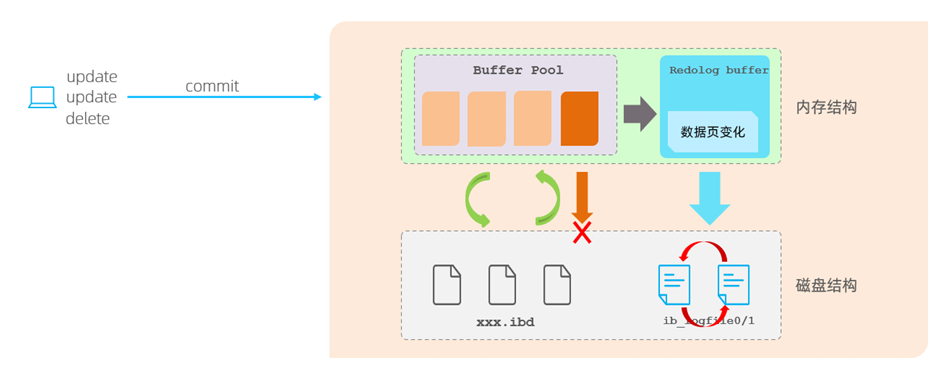
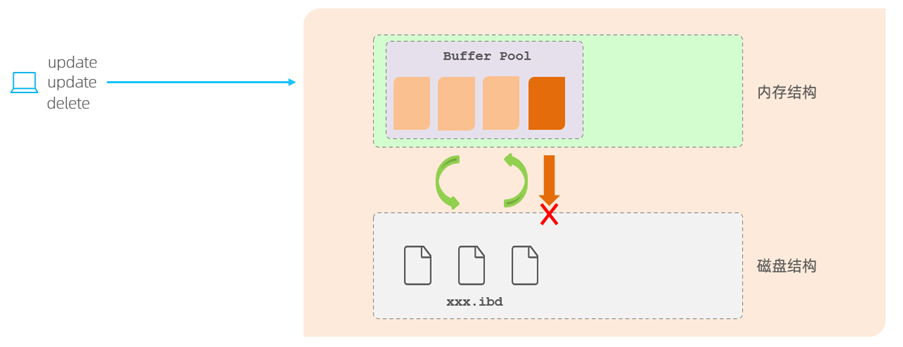
update 5.3

Changed region(s): [[0.4031, 0.0865, 0.9302, 0.9222], [0.0, 0.0288, 0.9922, 0.9798], [0.8372, 0.7493, 0.8992, 0.8069]]

diff --git a/docs/笔记/常用网站.md b/docs/笔记/常用网站.md
@@ -266,7 +266,7 @@ Java 数据结构（韩顺平）：https://www.bilibili.com/video/BV1E4411H73v
 
 **中转站（低价接入大模型的平台）**
 
-- AI 大模型接入平台：https://zrocode.site/home
+- ZROCODE：https://zrocode.site/home
 - API - Pro：https://api.rcouyi.com/
 
 ### MCP 服务
@@ -393,35 +393,43 @@ Java 数据结构（韩顺平）：https://www.bilibili.com/video/BV1E4411H73v
 
 （2） 尚硅谷 JavaWeb（194 集）：https://www.bilibili.com/video/BV1UN411x7xe
 
-3. 黑马 **Redis**（包含黑马点评项目）：https://www.bilibili.com/video/BV1cr4y1671t/
+3. 黑马**若依框架**：https://www.bilibili.com/video/BV1pf421B71v/
+
+> 基础应用篇笔记：https://ksg50j5gph.feishu.cn/docx/LBpldchP4oGT9JxfaaQcT8hfnGd
+>
+> 项目实战篇笔记：https://ksg50j5gph.feishu.cn/docx/NxIqdCZVzo2tRfxNL6Nc1BD1nnf
+>
+> 拔高原理篇笔记：https://ksg50j5gph.feishu.cn/docx/DKoFdbI1ooYnBLxnw8mco9bgnvh
+
+4. 黑马 **Redis**（包含黑马点评项目）：https://www.bilibili.com/video/BV1cr4y1671t/
 
 > 课程资料：https://pan.baidu.com/s/1189u6u4icQYHg_9_7ovWmA&pwd=eh11
 
-4. 黑马 SpringCloud **微服务**（MybatisPlus + Docker + MQ + ES + Redis 高级等）：https://www.bilibili.com/video/BV1S142197x7
+5. 黑马 SpringCloud **微服务**（MybatisPlus + Docker + MQ + ES + Redis 高级等）：https://www.bilibili.com/video/BV1S142197x7
 
 > - 在线笔记：https://b11et3un53m.feishu.cn/wiki/space/7229522334074372099
 > - 课程资料：https://pan.baidu.com/s/1JX0fhmV82mgPeBBbAMNV0w&pwd=7988
 
-5. 黑马 **JUC**：https://www.bilibili.com/video/BV16J411h7Rd/
+6. 黑马 **JUC**：https://www.bilibili.com/video/BV16J411h7Rd/
 
 > 课程资料：https://pan.baidu.com/s/1ygecyA_F7HsIOQenIEoQWA&pwd=1987
 
-6. 黑马 **JVM**：https://www.bilibili.com/video/BV1yE411Z7AP
+7. 黑马 **JVM**：https://www.bilibili.com/video/BV1yE411Z7AP
 
 > 课程资料：https://pan.baidu.com/s/18YNZB5QjUCeJ6DYWykOhoQ&pwd=1988
 
-7. 黑马 **设计模式**：https://www.bilibili.com/video/BV1Np4y1z7BU/
+8. 黑马 **设计模式**：https://www.bilibili.com/video/BV1Np4y1z7BU/
 
 > 课程资料：https://pan.baidu.com/s/1URG3sFhFPqdNP8CbGS_UHg&pwd=1888
 
-8. **Git**
+9. **Git**
 
 - 30 分钟快速入门：https://www.bilibili.com/video/BV1pX4y1S7Dq/
 - 尚硅谷 Git：https://www.bilibili.com/video/BV1vy4y1s7k6/
 - 黑马 Git：https://www.bilibili.com/video/BV1MU4y1Y7h5/
 - 菜鸟教程：https://www.runoob.com/git/git-tutorial.html
 
-9. **Linux**
+10. **Linux**
 
 - 30 分钟快速入门：https://www.bilibili.com/video/BV1cq421w72c/
 - 黑马 Linux：https://www.bilibili.com/video/BV1n84y1i7td/
@@ -431,7 +439,7 @@ Java 数据结构（韩顺平）：https://www.bilibili.com/video/BV1E4411H73v
 - 韩顺平 Linux：https://www.bilibili.com/video/BV1Sv411r7vd/
 - 菜鸟教程：https://www.runoob.com/linux/linux-tutorial.html
 
-10. **毕设指导**：https://www.bilibili.com/video/BV15BqAYNErA/
+11. **毕设指导**：https://www.bilibili.com/video/BV15BqAYNErA/
 
 ### SSM 原理篇
 
@@ -487,7 +495,7 @@ Java 数据结构（韩顺平）：https://www.bilibili.com/video/BV1E4411H73v
 
 > ⚠ **黑马项目演示账号密码**：https://s3domc2om4.feishu.cn/wiki/MToQwY5jViQrTlkvyd9cuwgqnpc
 
-**（1）AIGC 应用与智能体开发（星图）**（AI 智能体项目）
+**（1）AIGC 应用与智能体开发（星图）**（文生图项目）
 
 > - 在线笔记：https://aigz8jy30yo.feishu.cn/drive/folder/E1VPfW6QqldKxOdMaNCcrGOHnbb?from=from_copylink
 > - 课程资料：https://pan.baidu.com/s/1wCfD35LqKpeTnRu4G87tuA?pwd=c2x1 提取码: c2x1
@@ -518,7 +526,7 @@ Java 数据结构（韩顺平）：https://www.bilibili.com/video/BV1E4411H73v
 > - 在线笔记：https://b11et3un53m.feishu.cn/wiki/space/7210409107579469825
 > - 课程资料：https://pan.baidu.com/s/1f6JS6TLgVXEVMmjA3lThZg?pwd=8cyk 提取码：8cyk
 
-**（6）天机学堂 - AI 模块**
+**（6）天机学堂 - AI 模块**（SpringAI + MCP）
 
 > - 课程链接：https://www.bilibili.com/video/BV1MFokBkEzC/
 > - 在线笔记（黑马星球）：https://www.yuque.com/zhangzhijun-91vgw/tianji-ai?# **密码：yygg**
@@ -542,6 +550,14 @@ Java 数据结构（韩顺平）：https://www.bilibili.com/video/BV1E4411H73v
 > - 在线笔记：https://aigz8jy30yo.feishu.cn/docx/WFcydX5GLocjbMxjg22cZP9Onmh **密码：494&s157**
 > - 课程资料：https://pan.baidu.com/s/1iAqTQnYBO9Z3M4h1OOmNJg?pwd=n90d 提取码：n90d
 
+**（10）Dubbo 版本餐掌柜**（微服务 + 分布式项目）
+
+> - 课程资料：https://pan.baidu.com/s/13nrvTWU7JzPbbFb04adN-g?pwd=dr48 提取码: dr48
+> - 在线笔记（飞书）：https://aigz8jy30yo.feishu.cn/docx/L6qidD7FJo3hOJxjRVvcvUHmnPf **密码：V221@991**
+> - 在线笔记（语雀）：https://www.yuque.com/ares666/or96ib?# **密码：aetm**
+> - 虚拟机下载（百度网盘）：https://pan.baidu.com/s/1VEP666peVZvpcsur4HzBrA?pwd=meyd 提取码: meyd
+> - 虚拟机下载（夸克网盘）：https://pan.quark.cn/s/ec439a9e9bb5 提取码：FHax
+
 ### 接口测试
 
 **Apifox**
@@ -559,25 +575,7 @@ Java 数据结构（韩顺平）：https://www.bilibili.com/video/BV1E4411H73v
 
 ### 🤖 Java + AI
 
-- **鱼皮 AI 教程**：https://ai.codefather.cn/library/1936010874183520257
-
-> **鱼皮超级智能体项目**：https://www.codefather.cn/course/1915010091721236482
-> 项目仓库：https://github.com/liyupi/yu-ai-agent
-> 项目介绍视频：https://www.bilibili.com/video/BV1UoLezKEbm/
-
-- **AI 相关内容介绍（鱼皮）**
-
-> 视频教程：https://www.bilibili.com/video/BV1i9Z8YhEja
->
-> 文字教程：https://www.codefather.cn/course/1907378983347892226
-
-- 黑马 AI + **若依框架**：https://www.bilibili.com/video/BV1pf421B71v/
-
-> 基础应用篇笔记：https://ksg50j5gph.feishu.cn/docx/LBpldchP4oGT9JxfaaQcT8hfnGd
->
-> 项目实战篇笔记：https://ksg50j5gph.feishu.cn/docx/NxIqdCZVzo2tRfxNL6Nc1BD1nnf
->
-> 拔高原理篇笔记：https://ksg50j5gph.feishu.cn/docx/DKoFdbI1ooYnBLxnw8mco9bgnvh
+**（1）相关课程**
 
 - 黑马 SpringAI + DeepSeek 大模型应用开发：https://www.bilibili.com/video/BV1MtZnYtEB3/
 
@@ -585,11 +583,33 @@ Java 数据结构（韩顺平）：https://www.bilibili.com/video/BV1E4411H73v
 
 - 黑马 LangChain4j：https://www.bilibili.com/video/BV1sDMqzpEQ3
 
-- 黑马 Deepseek 使用教程：https://www.bilibili.com/video/BV1SoQuYjE2u
-
 - 黑马 Deepseek + Cursor 项目实战开发：https://www.bilibili.com/video/BV1ig9jYUERk/
 
+- 黑马 Deepseek 使用教程：https://www.bilibili.com/video/BV1SoQuYjE2u
+
 - 黑马 Deepseek 本地部署：https://www.bilibili.com/video/BV1iQNueoEBD
+
+**（2）相关项目**
+
+- 鱼皮超级智能体项目：https://www.codefather.cn/course/1915010091721236482
+
+> 项目仓库：https://github.com/liyupi/yu-ai-agent
+>
+> 视频介绍：https://www.bilibili.com/video/BV1UoLezKEbm/
+
+**（3）相关资料**
+
+- 黑马 OpenCode 教程文档：https://t1435a6bh73.feishu.cn/wiki/VDzSwQ37jiSL6LkktTgcqnu5nMd
+
+- Hello-Agents：https://datawhalechina.github.io/hello-agents/#/
+
+- **鱼皮 AI 知识库**：https://ai.codefather.cn/library/1936010874183520257
+
+- **鱼皮 AI 相关内容介绍**
+
+> 视频教程：https://www.bilibili.com/video/BV1i9Z8YhEja
+>
+> 文字教程：https://www.codefather.cn/course/1907378983347892226
 
 ### ⚠ 面试 & 八股文
 
@@ -599,7 +619,11 @@ Java 数据结构（韩顺平）：https://www.bilibili.com/video/BV1E4411H73v
 - **小林简历**：https://jianli.xiaolinnote.com/
 - CodeCV 简历模板：https://codecv.top/
 - 鱼皮简历：https://www.laoyujianli.com/
-- 知页简历（手机 APP）
+- 直聘简历：https://cv.zhipin.com/
+- 全民简历；https://www.qmjianli.com/
+- 五百丁简历：https://www.500d.me/
+- 简历本：https://www.jianliben.com/
+- 职徒简历：https://www.52cv.com/
 
 **算法**
 
@@ -645,27 +669,33 @@ Java 数据结构（韩顺平）：https://www.bilibili.com/video/BV1E4411H73v
 
 ### 🚀 找工作
 
-面试鸭：https://www.mianshiya.com/banks
+**求职攻略**
 
-boss 直聘：https://www.zhipin.com/
+- 鱼皮求职指南：https://www.bilibili.com/video/BV1LEQLYqEGT/
 
-拉钩招聘：https://www.lagou.com/wn/
+- 鱼皮求职注意事项：https://www.bilibili.com/video/BV1NmxyzJEkn/
 
-牛客网：https://www.nowcoder.com/
+**投递渠道**
 
-实习僧：https://tuiguang.shixiseng.com/
+- boss 直聘：https://www.zhipin.com/
 
-智联招聘：https://www.zhaopin.com/
+- 牛客网：https://www.nowcoder.com/
 
-前程无忧：https://51job.com/
+- 智联招聘：https://www.zhaopin.com/
+
+- 前程无忧：https://51job.com/
+
+- 猎聘：https://www.liepin.com/
+
+- 实习僧：https://tuiguang.shixiseng.com/
+
+- 拉钩招聘：https://www.lagou.com/wn/
 
 ### 工具 & 资源
 
-**飞书**
+**Java 相关资源**
 
-- 官方教程：https://www.bilibili.com/video/BV1Bvxhe6EBC/?spm_id_from=333.337.search-card.all.click&vd_source=822e86b53dab98632ef279a46d2536db
-
-- 文档使用教程（官方文档）：https://www.feishu.cn/hc/zh-CN/articles/945900971706-%E5%BF%AB%E9%80%9F%E4%B8%8A%E6%89%8B%E6%96%87%E6%A1%A3
+- JavaGuide 资源：https://javaguide.cn/open-source-project/tutorial.html
 
 **工具集**
 
@@ -682,16 +712,6 @@ boss 直聘：https://www.zhipin.com/
 - 浏览器 json 格式化插件：https://microsoftedge.microsoft.com/addons/detail/json-formatter/hdebmbedhflilekbidmmdiaiilaegkjl
 
 - SwitchHosts（自定义 ip 映射自定义域名）：https://github.com/oldj/SwitchHosts/releases
-
-**Java 资源**
-
-- Java 优质开源技术教程：https://javaguide.cn/open-source-project/tutorial.html
-- Java 优质开源实战项目：https://javaguide.cn/open-source-project/practical-project.html
-- Java 优质开源系统设计项目：https://javaguide.cn/open-source-project/system-design.html
-- Java 优质开源工具类：https://javaguide.cn/open-source-project/tool-library.html#excel
-- Java 优质开源开发工具：https://javaguide.cn/open-source-project/tools.html#redis
-- Java 优质开源 AI 项目：https://javaguide.cn/open-source-project/machine-learning.html
-- Java 优质开源大数据项目：https://javaguide.cn/open-source-project/big-data.html
 
 - 开发相关工具箱：https://www.matools.com/
 
@@ -985,6 +1005,12 @@ iraionly 文章站：http://iraionly.cn/
 百度翻译：https://fanyi.baidu.com/mtpe-individual/multimodal?ext_channel=DuSearch#/
 
 DeepL 翻译：https://www.deepl.com/zh/translator
+
+**飞书**
+
+- 官方教程：https://www.bilibili.com/video/BV1Bvxhe6EBC/?spm_id_from=333.337.search-card.all.click&vd_source=822e86b53dab98632ef279a46d2536db
+
+- 文档使用教程（官方文档）：https://www.feishu.cn/hc/zh-CN/articles/945900971706-%E5%BF%AB%E9%80%9F%E4%B8%8A%E6%89%8B%E6%96%87%E6%A1%A3
 
 百度图片 AI 助手：<a href="https://image.baidu.com/search/index?tn=baiduimage&ipn=r&ct=201326592&cl=2&lm=-1&st=-1&fm=detail&fr=baiduimageedit&hs=0&xthttps=111110&sf=1&fmq=1713767239197_R&pv=&ic=0&nc=1&z=&se=&showtab=0&fb=0&width=&height=&face=0&istype=2&ie=utf-8&word=bdaitpzs%E7%99%BE%E5%BA%A6AI%E5%9B%BE%E7%89%87%E5%8A%A9%E6%89%8Bbdaitpzs&oq=%E5%9B%BE%E7%89%87&rsp=-1&lid=14938420623750463293&toolType=3" target="_blank">点击跳转</a>
 

diff --git a/docs/后端/MySQL/MySQL/运维篇/3. 分库分表.md b/docs/后端/MySQL/MySQL/运维篇/3. 分库分表.md
@@ -40,7 +40,7 @@ aside: right
 <br/>
 <img src="./12.png" style="width:600px;margin:0 auto;"/>
 
-> #### 垂直分库：<span style="color:red;">以表为依据</span>，根据业务将不同表拆分到不同库中
+> #### 垂直分库：<span style="color:red;">以表为依据</span>，根据<span style="color:red;">业务</span>将不同表拆分到不同库中
 >
 > #### 三大特点
 >
